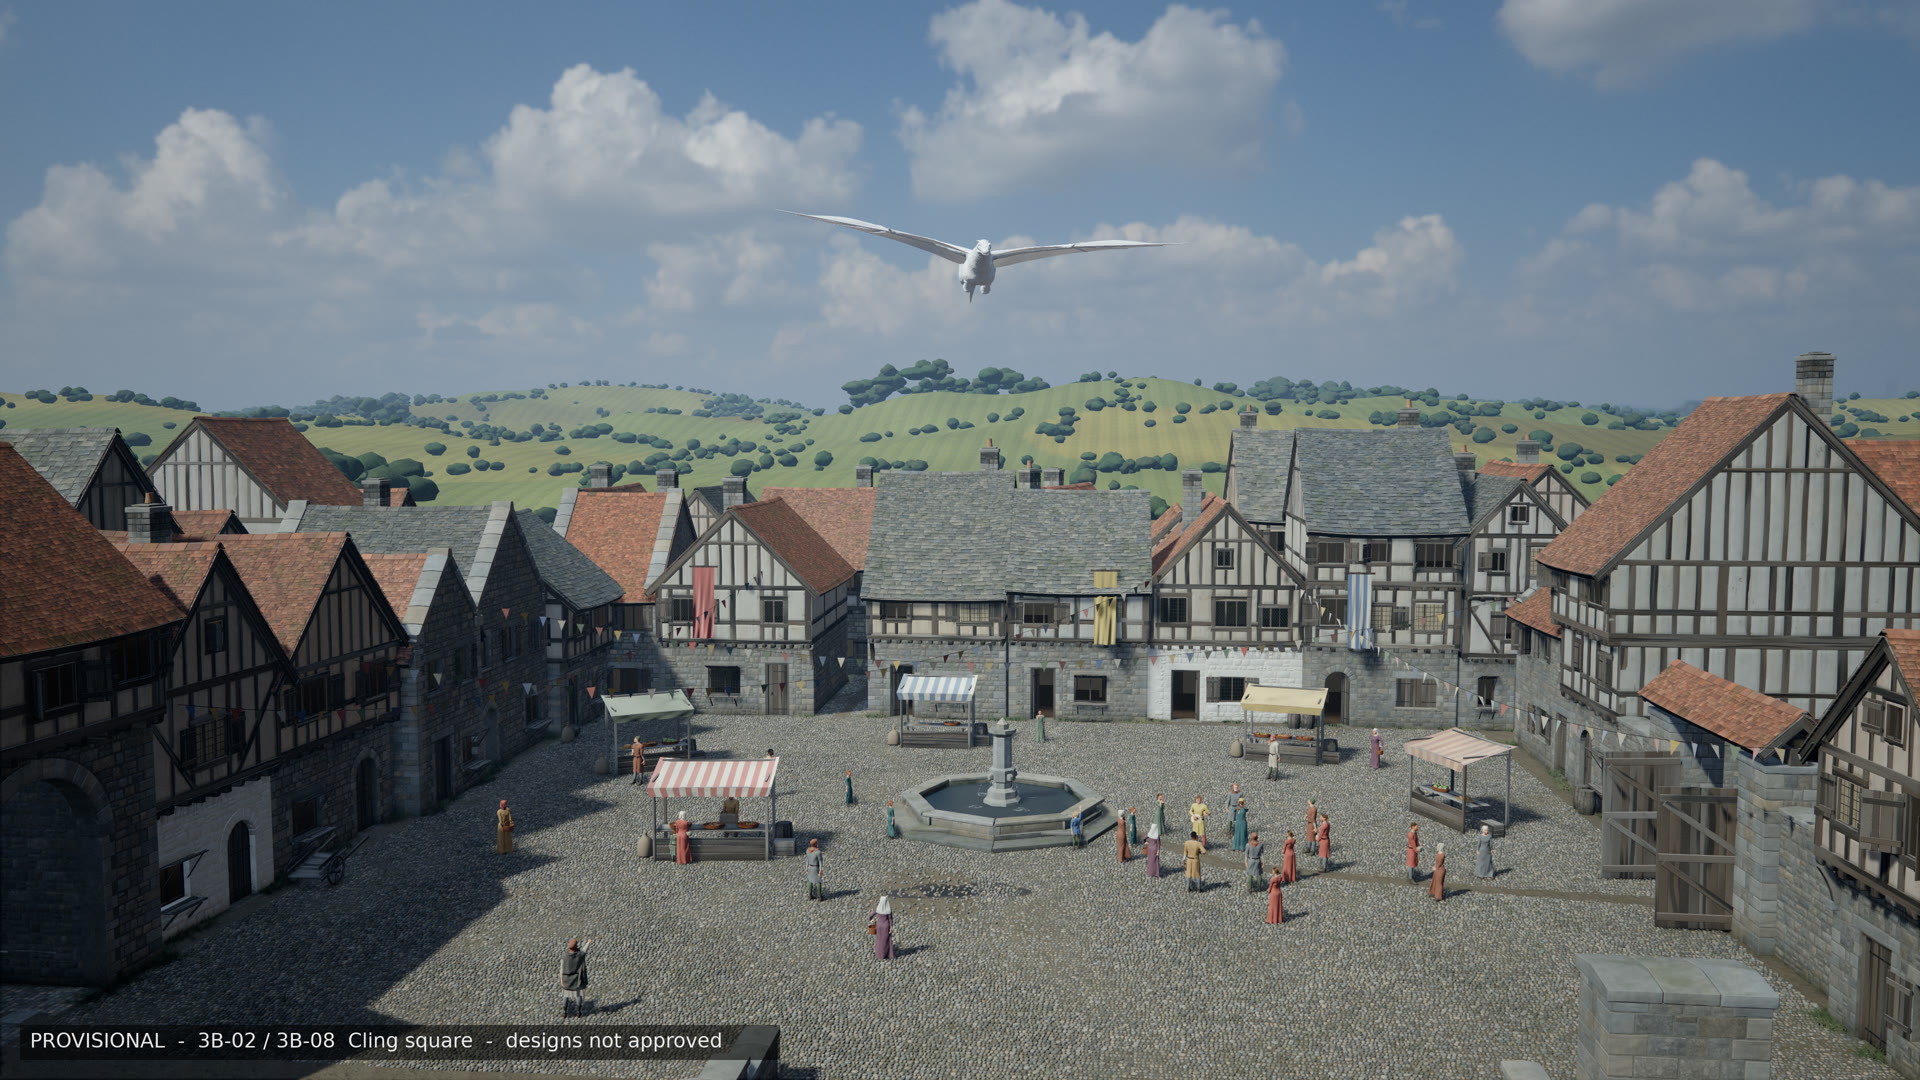
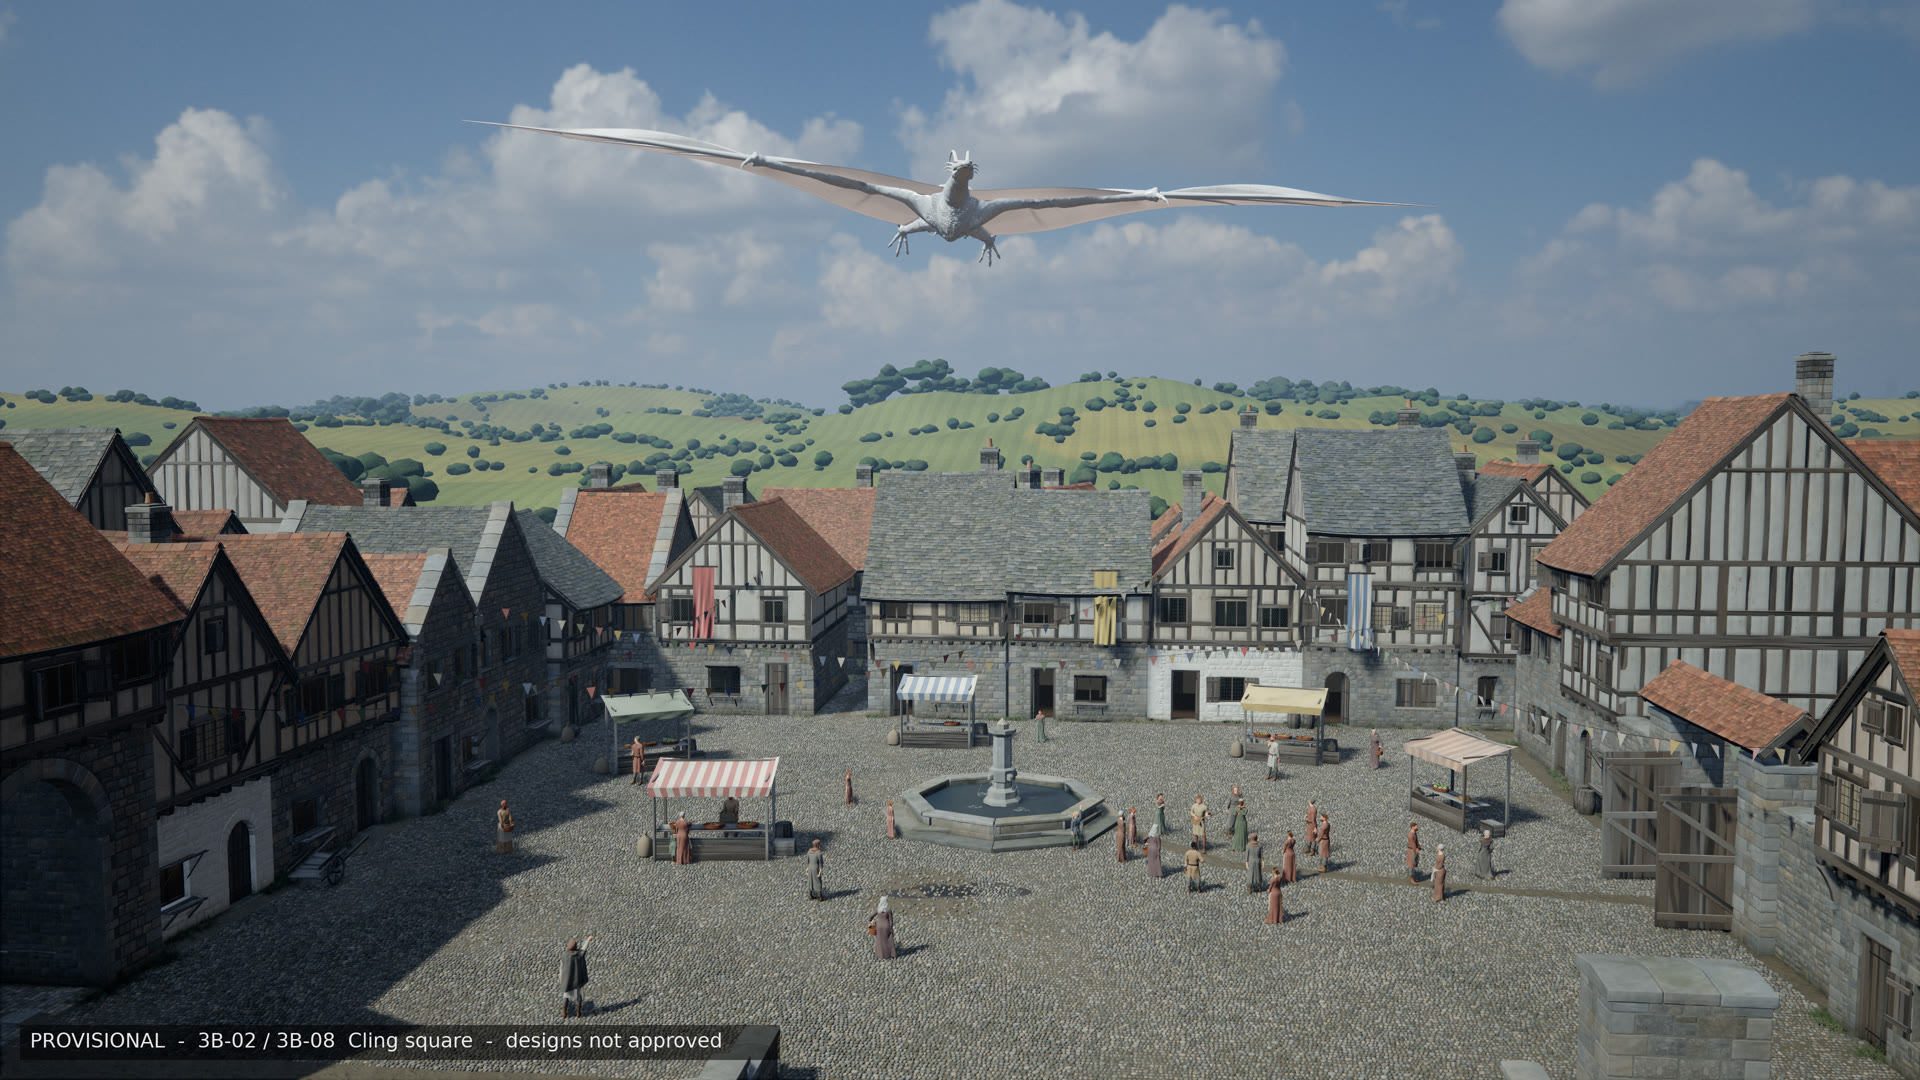
WIP dragons: style frames round 4 - F2/F3/F5 previews from the final 4K renders, F4 cloth on a 128x96 grid ending at her hands, PROGRESS (measurements, open issues)
Claude-Session: https://claude.ai/code/session_01Jk9nJxHRmbfj3XjX5HnS7k

diff --git a/dragons-kingdom/scenes/lookdev/style-f4-birthing-chamber.js b/dragons-kingdom/scenes/lookdev/style-f4-birthing-chamber.js
@@ -249,7 +249,7 @@ float dkShellD;`)
   // under the hatchling's chest) laid over her hands - its shape is draped every frame over the bed
   // and over her hands (see drapeCloth), so her fingers are under the cloth, never through it
   clothMat.vertexColors = false;
-  const CU = 64, CV = 48;
+  const CU = 128, CV = 96;
   const fcloth = new THREE.Mesh(new THREE.PlaneGeometry(1, 1, CU, CV), clothMat);
   fcloth.castShadow = fcloth.receiveShadow = true; fcloth.frustumCulled = false;
   fcloth.userData.grid = [CU, CV];
@@ -305,7 +305,9 @@ function drapeCloth(mesh, c, across, along, w, d, ch, linenY, hatch) {
   // standing in walls round them)
   // (every cell relaxes, the border rows too - held at the bed they stood up as a stepped wall where
   // the cloth's edge crosses her knuckles)
-  for (let it = 0; it < 220; it++) {
+  // (the grid is 128 x 96: the same spread and sag as the old 64 x 48 drape take 4x the passes and
+  // a quarter of the per-pass sag, as diffusion goes with the cell size squared)
+  for (let it = 0; it < 880; it++) {
     const T = H.slice();
     for (let j = 0; j <= CV; j++) for (let i = 0; i <= CU; i++) {
       const k = j * (CU + 1) + i;
@@ -314,7 +316,7 @@ function drapeCloth(mesh, c, across, along, w, d, ch, linenY, hatch) {
       if (i < CU) { m += T[k + 1]; n++; }
       if (j > 0) { m += T[k - CU - 1]; n++; }
       if (j < CV) { m += T[k + CU + 1]; n++; }
-      H[k] = Math.max(H0[k], m / n - 0.0004);
+      H[k] = Math.max(H0[k], m / n - 0.0001);
     }
   }
   for (let j = 0; j <= CV; j++) for (let i = 0; i <= CU; i++) {
@@ -322,7 +324,10 @@ function drapeCloth(mesh, c, across, along, w, d, ch, linenY, hatch) {
     // creases running out from the hands, a rolled fold along the left edge
     const crease = 0.0025 * Math.sin(v * 37 + u * 9) * Math.sin(u * 13 + 1.7) + 0.0015 * Math.sin(u * 51 - v * 23);
     const fold = 0.006 * Math.exp(-u * 40);
-    P.setXYZ(k, X[k], H[k] + crease * (H[k] - H0[k] > 0.004 ? 1 : 0.4) + fold, Z[k]);
+    // (the creases fade in smoothly where the cloth lifts off the bed: a hard switch at 4 mm drew a
+    // jagged contour line along the cloth's drop from her hands)
+    const lifted = Math.min(1, Math.max(0, (H[k] - H0[k]) / 0.01));
+    P.setXYZ(k, X[k], H[k] + crease * (0.4 + 0.6 * lifted * lifted * (3 - 2 * lifted)) + fold, Z[k]);
   }
   P.needsUpdate = true;
   g.computeVertexNormals();
@@ -413,7 +418,9 @@ export function update(t, ctx) {
   for (const sd of ['L', 'R']) relaxHand(alex, sd, { fingers: under, palm: up, keepFingers: true });
   // the cloth: folded edge under the chest, the rest over her hands toward the lens
   // (it ends over her knuckles: the backs of her hands and her wrists show at its near edge)
-  drapeCloth(fcloth, base.clone().addScaledVector(near, 0.055), near, fwd.clone().setY(0).normalize(), 0.24, 0.3, alex, S.linenY, hatch);
+  // (only a few cm past the outer hands: a heightfield cloth cannot hang, and a long drop off a hand
+  // to the bed showed as stretched bands)
+  drapeCloth(fcloth, base.clone().addScaledVector(near, 0.055).addScaledVector(fwd, 0.022), near, fwd.clone().setY(0).normalize(), 0.24, 0.2, alex, S.linenY, hatch);
   const endR = base.clone().addScaledVector(near, 0.2).addScaledVector(up, 0.03);     // her hands
   lookAtPoint(alex, chest, 0.8);
   if (T0 === 2) { const wr = ['L', 'R'].map((sd) => bonePos(alex, `wrist.${sd}`)); console.warn('[f4] wrists', wr.map((w) => (w.y - base.y).toFixed(3) + '@' + w.distanceTo(wA).toFixed(2) + '/' + w.distanceTo(wB).toFixed(2)).join(' '), 'base', base.toArray().map((v) => v.toFixed(3)).join(',')); }

diff --git a/dragons-kingdom/scenes/lib/sets/PROGRESS.md b/dragons-kingdom/scenes/lib/sets/PROGRESS.md
@@ -4,6 +4,77 @@ Owned paths: `scenes/lookdev/style-*.js`, `scenes/lookdev/finish.js`, `scenes/li
 `episodes/s01e01/style-frames/`. Renders go to `output/lookdev/style-frames/` (git-ignored);
 scratch renders to the session scratchpad `sf/`.
 
+## Round 4 (2026-10-15): F2-F5 with the two-legged, horned dragons (DRAGONS.md 2026-10-14)
+
+State: DONE - all four re-staged, rendered at native 4K, looked at (1920 + 1:1 crops), previews
+overwritten. F1 has no dragon on screen (a shadow in the mist) and was not touched.
+
+What changed per frame (each scene's header says why):
+- F2: Charcoal in his design's sphinx lie (poses.lie: belly down, hind legs folded under, folded
+  wings along the flanks, forearms on the grass) with the head resting on its chin; turned ~40 deg
+  toward the lens (cdir) so the face reads 3/4 (mouth line, nostril, blue eye) and the folded wing's
+  drape - a pale grey sheet on the grass between elbow and thigh - is mostly hidden behind the
+  forearm. Remi on the access rig: at the gangway's foot on Charcoal's back, right hand taking the
+  mounting strap looped on the riding rig's grab bar (tack.js geometry: bar 0.55 m ahead of the
+  seat point, 0.23 m up), left hand on the gangway rail (`onGangway(u, x)` gives the walking
+  surface from accessRig's own numbers). Exposure 2.0 -> 1.6 (the black hide read slate grey).
+  Leaf's dog sit (poses.sit, wings folded) and Abby at his chest unchanged. Hero meshes only at
+  --preset final (standard below, for quick looks). Debug views (all frozen at t = 2, one job:
+  --preset draft --fps 1 --start 100 --seconds 9): 100 frame, 101 Leaf+Abby, 102 Remi, 103 rig,
+  104 Charcoal's near side, 105 his head, 106-108 drape look-dev (crouch/stand drapes on the lie
+  break the membrane; the default 'lie' drape is the best of them).
+- F3: Charcoal coasts level with Leaf on spread wings (poses.glide) - nothing of his 30 m
+  half-span smears across the 180-degree shutter; Leaf flaps at mid-downstroke (late downstroke
+  hung his near wing below him like a sail); stroke variants at --time 100..104. Camera ship
+  120 m up ~20 m off the cliffs, 55 mm, framing Charcoal upper right, Leaf lower left, Charcoal's
+  shadow on the shallows lower right. Exposure 2.05 -> 1.1 (exposed for the sunlit grey membrane as
+  for a grey card; at +2 EV it read white), lift -0.07 -> -0.045. The saddles' own hanging stirrups
+  are hidden under the mounted riders (rider.js puts stirrups under their boots).
+- F4: the wyvern newborn in poses.pushUp (k 0.3: weak, chest a little up), 3/4 profile head to
+  screen left (FWD), camera from the head/hands midpoint (CAMS: 100 frame, 103/104 alternatives,
+  105 close on the hands; 101 overview). Alexandria's forearms come in from the right along the
+  newborn's near side, hands low on the bedding under the chest (shoulders placed for reach), the
+  folded cloth draped over both hands. The linen height is now a 1 cm grid rasterised from the
+  cloth bake (bilinear; the nearest-vertex lookup stepped), the cloth grid is 128 x 96 and relaxes
+  to its borders (held at the bed they stood up as walls), its creases fade in smoothly where it
+  lifts (a hard 4 mm switch drew a jagged contour), and it ends a few cm past her outer hands (a
+  heightfield cannot hang: a long drop off a hand stretched the weave into bands).
+- F5: Starlight closer (z -150, y 29: ~195 m) - her ~137 m span is wider on screen than the north
+  row; hero mesh only at final.
+
+Look-dev loop (scratch, not committed): sf/rs.sh <F2..F5> <name> [time] [preset] none (one still),
+sf/rj.sh <F#> <name> <start> <count> [preset] (one job, one setup, frames -> PNG),
+sf/lum.py (display-luminance percentiles of regions).
+
+Measurements (native 4K, --preset final, the 8-sub-frame film finish, one --still per frame via
+make.sh, this machine: 4 vCPU, SwiftShader, no other renders running unless noted):
+
+| frame | render (s) | total incl. build (s) | notes |
+|---|---:|---:|---|
+| F2 riding grounds | 434.7 | 541.1 | Charcoal + Leaf hero meshes, 3 cast builds, stable/lodge/rig, 77k grass tufts (an earlier pass with draft jobs running beside it: 576.3 / 690.1) |
+| F3 flight | 131.0 | 235.4 | two hero creatures, riders, FFT ocean (with a draft job beside it: 236.2 / 343.0) |
+| F4 birthing chamber | 461.8 | 562.4 | hero newborn (the densest mesh), chamber, Alexandria, 96-tap DOF, dust volumetrics (with jobs beside it: 897.3 / 1010.7) |
+| F5 Cling square | 821.5 | 923.4 | ~23 M tris town, ~40 cast builds, Starlight hero + rider (an F2 job ran beside it part of the time) |
+
+Review images (git-ignored): output/lookdev/style-frames/review-r4/ (1920 downscales + 1:1 4K
+crops: Charcoal's head, Remi at the rig, Leaf+Abby, the folded wing, Charcoal+Remi in flight,
+Leaf+Abby in flight, Starlight, the watchman; F4 head and hands).
+
+Open issues seen in the round-4 finals (all PROVISIONAL):
+- F2: between Charcoal's forearm and thigh the folded wing's drape shows as a smooth pale-grey sheet
+  lying on the grass (creatures domain: drape.js 'lie'; the crouch/stand drapes are worse on a lying
+  body, see views 106-108). The riding rig's seat and grab bar read a little like furniture from 75 m.
+  Leaf and Abby are small at the far stable door (as in round 3).
+- F3: the membranes in flight have no visible veins from 250 m; Leaf's wings blur a little in his
+  mid-downstroke (true motion blur, no ghost copies).
+- F4: the folded cloth is a heightfield drape (it cannot hang or fold over itself): its edge is a
+  little wavy where it leaves her fingers; her sleeves are boxy (humans domain); the newborn's gold
+  can read as a casting (creatures domain, noted there). Next: a bpy cloth bake of the cloth over
+  her posed hands (one bake per shot).
+- F5: Starlight from below-front at ~195 m reads clearly as a two-legged horned white wyvern but her
+  folded-up feet and hands are small dark claws against the bright sky; the crowd figures are small
+  (as in round 3).
+
 ## Session 5 (2026-10-08, from ~20:40 UTC): re-render F1-F5 with the new domain models
 
 Goal: the five style frames built from the NEW models (creatures, humans cast builds,
